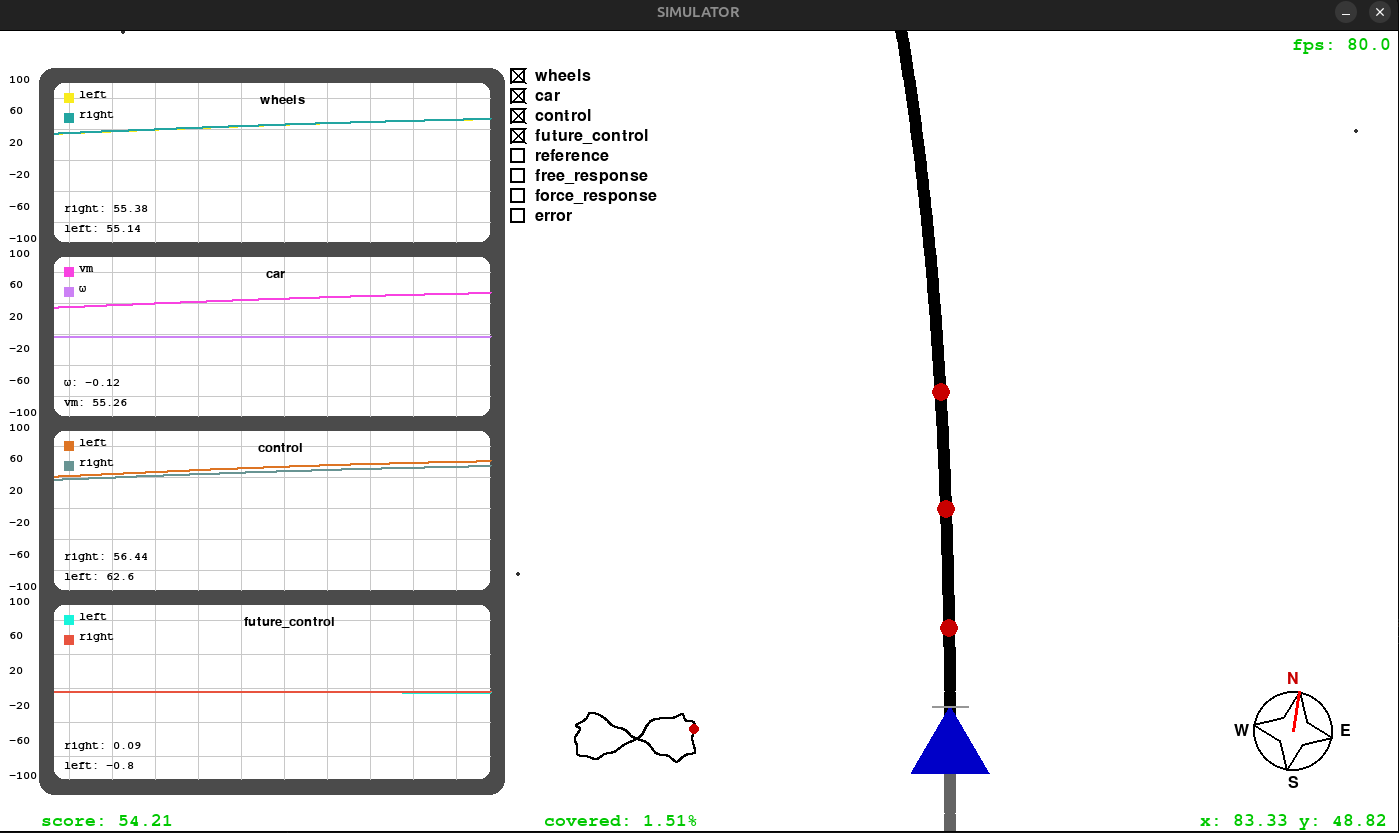
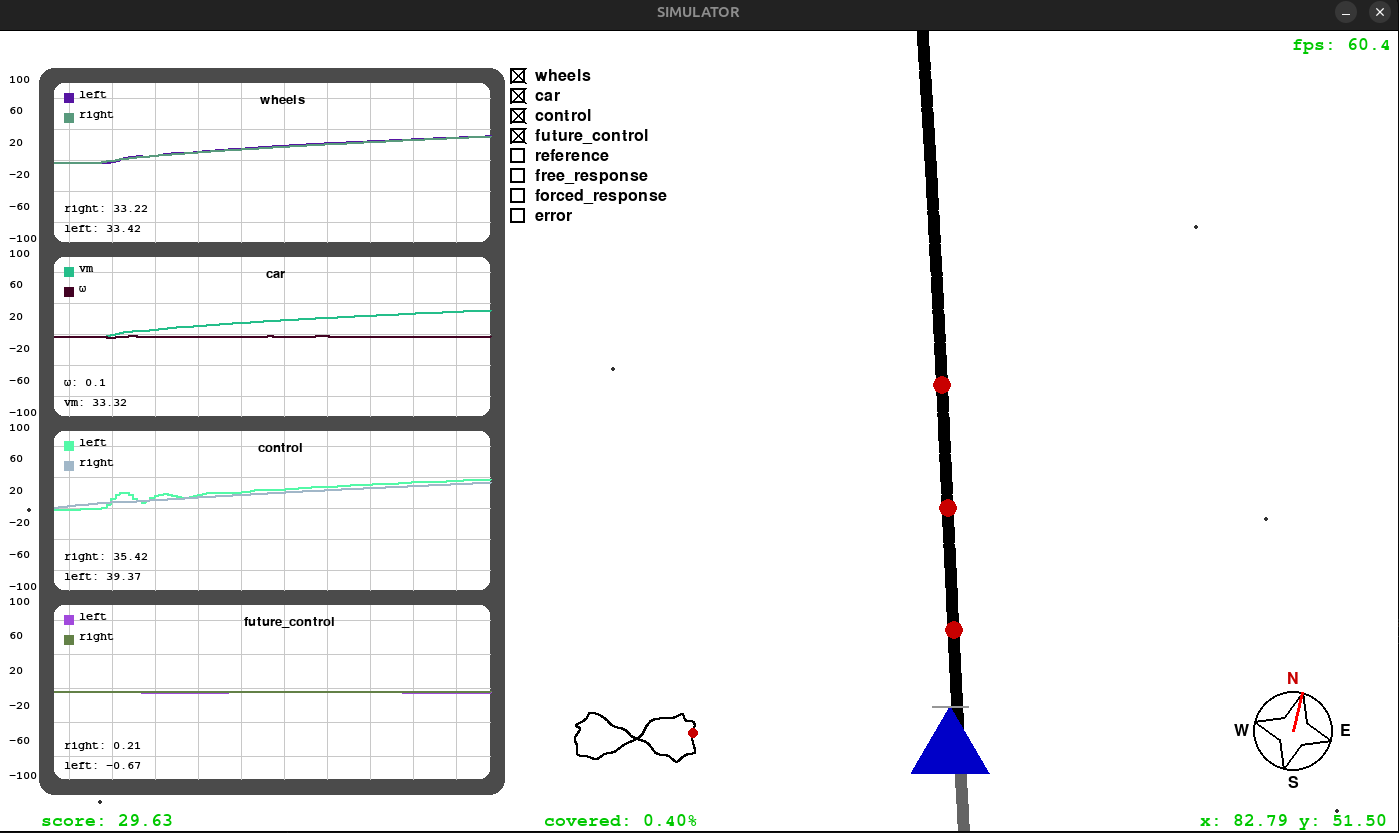
correcoes ingles

diff --git a/simulator.py b/simulator.py
@@ -51,8 +51,8 @@ class SimulatorController:
         self.future_v = [1] * 10
         self.free_response_omega = [1] * 10
         self.free_response_v = [1] * 10
-        self.force_response_omega = [1] * 10
-        self.force_response_v = [1] * 10
+        self.forced_response_omega = [1] * 10
+        self.forced_response_v = [1] * 10
         self.future_control_left = [1] * 10
         self.future_control_right = [1] * 10
         self.error_omega = [1] * 10
@@ -194,9 +194,9 @@ class SimulatorController:
         self.display.add_line_to_graph("free_response", "vm", color=self.get_rand_color())
         self.display.add_line_to_graph("free_response", "ω", color=self.get_rand_color())
 
-        self.display.add_graph("force_response")
-        self.display.add_line_to_graph("force_response", "vm", color=self.get_rand_color())
-        self.display.add_line_to_graph("force_response", "ω", color=self.get_rand_color())
+        self.display.add_graph("forced_response")
+        self.display.add_line_to_graph("forced_response", "vm", color=self.get_rand_color())
+        self.display.add_line_to_graph("forced_response", "ω", color=self.get_rand_color())
 
         self.display.add_graph("error")
         self.display.add_line_to_graph("error", "vm", color=self.get_rand_color())
@@ -217,8 +217,8 @@ class SimulatorController:
         self.display.set_graph_data("reference", "ω", self.future_omega)
         self.display.set_graph_data("free_response", "vm", self.free_response_v)
         self.display.set_graph_data("free_response", "ω", self.free_response_omega)
-        self.display.set_graph_data("force_response", "vm", self.force_response_v)
-        self.display.set_graph_data("force_response", "ω", self.force_response_omega)
+        self.display.set_graph_data("forced_response", "vm", self.forced_response_v)
+        self.display.set_graph_data("forced_response", "ω", self.forced_response_omega)
         self.display.set_graph_data("error", "vm", self.error_v)
         self.display.set_graph_data("error", "ω", self.error_omega)
 
@@ -356,14 +356,14 @@ def set_graph_free_response(omega, v):
     simulator.free_response_omega = omega
     simulator.free_response_v = v
 
-def set_graph_force_response(omega, v):
+def set_graph_forced_response(omega, v):
     # check if the simulator is initialized
     if simulator is None:
         print("Simulator not initialized")
         return
 
-    simulator.force_response_omega = omega
-    simulator.force_response_v = v
+    simulator.forced_response_omega = omega
+    simulator.forced_response_v = v
 
 def set_graph_error(omega, v):
     # check if the simulator is initialized

diff --git a/main.py b/main.py
@@ -220,6 +220,6 @@ while True:
     # --- update the graph reference --- #
     set_graph_future_control(delta_u[:N_uw], delta_u[N_uw:])
     set_graph_reference(r_w/ke_w, r_v/ke_v)
-    set_graph_force_response(G_lw @ delta_u[:N_uw], G_lv @ delta_u[N_uw:])
+    set_graph_forced_response(G_lw @ delta_u[:N_uw], G_lv @ delta_u[N_uw:])
     set_graph_free_response(free_w/ke_w * 10, 2*free_v/ke_v)
     set_graph_error(erro[:N_horizon]/ke_w, erro[N_horizon:]/ke_v)
